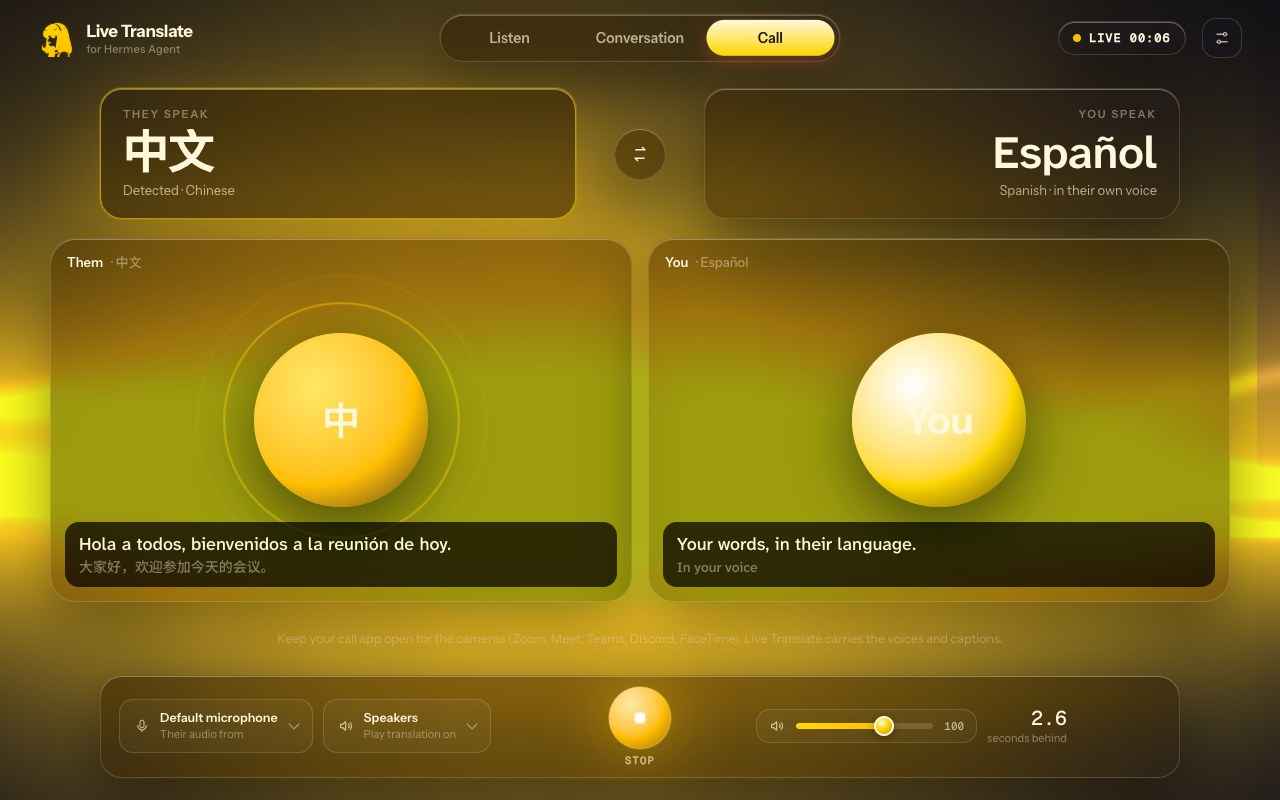
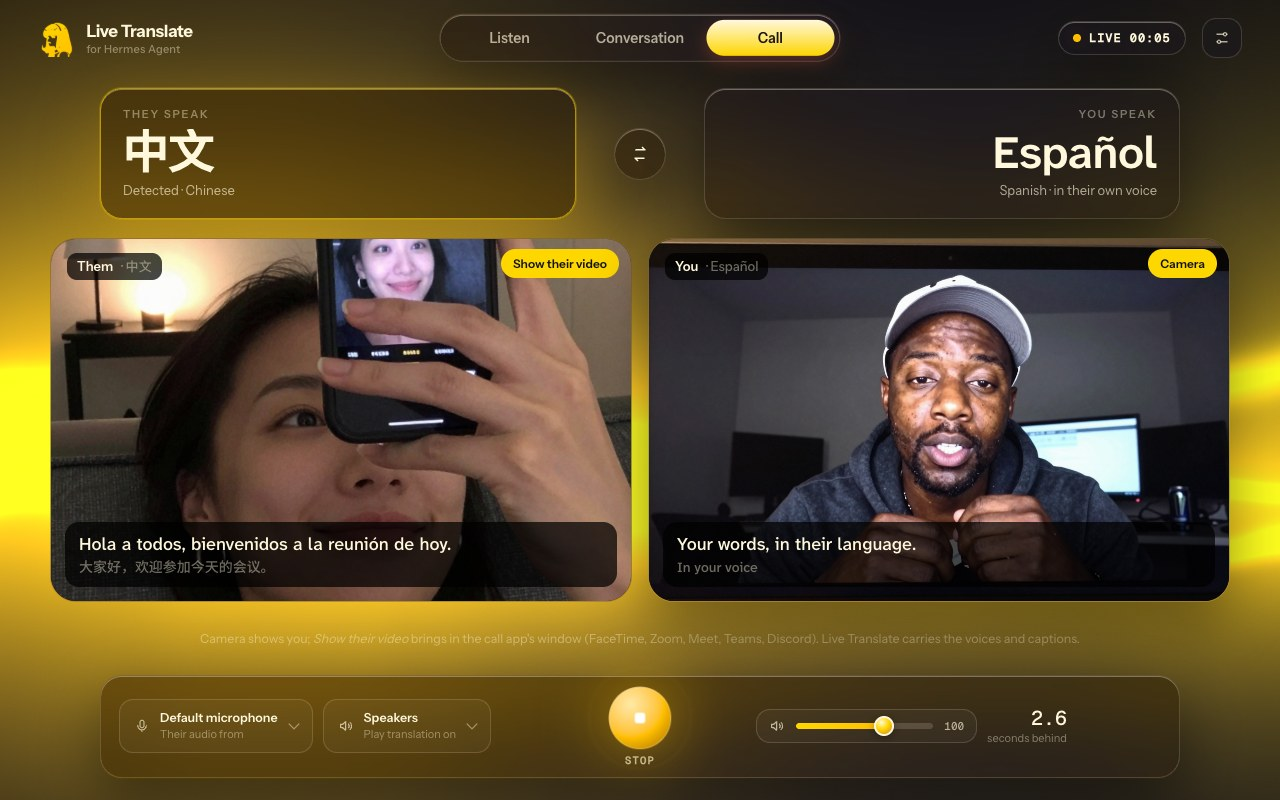
Call view: live camera and the call app's window in the tiles

diff --git a/app/index.html b/app/index.html
@@ -132,6 +132,17 @@ html.in-app .shell { border-radius: 12px; box-shadow: inset 0 0 0 1px var(--edge
   font: 500 clamp(14px, 1.4vw, 18px)/1.35 var(--cap); min-height: 2.8em; }
 .tile .sub small { display: block; color: var(--ink-3); font-size: .78em; margin-top: 2px; }
 .callnote { grid-column: 1 / -1; text-align: center; color: var(--ink-3); font-size: 12.5px; }
+/* Live video in the call tiles: your camera, and their side from the call app's window */
+.tile video { position: absolute; inset: 0; width: 100%; height: 100%; object-fit: cover; z-index: 0; display: none; background: #000; }
+.tile[data-video] video { display: block; }
+.tile[data-video] .face { display: none; }
+.tile .name, .tile .sub { z-index: 1; }
+.tile[data-video] .name { padding: 4px 10px; border-radius: 10px; background: var(--sub-bg, rgba(0, 0, 0, .6)); }
+.tile[data-video][data-speaking] { box-shadow: inset 0 0 0 3px var(--gold); }
+.tile .cam { position: absolute; top: 10px; right: 12px; z-index: 2; display: flex; align-items: center; gap: 6px; padding: 6px 11px; border-radius: 999px;
+  border: 1px solid var(--edge); background: var(--glass-strong); color: var(--ink); font: 600 12px var(--ui, inherit); cursor: pointer; }
+.tile .cam:hover { border-color: var(--edge-hi); }
+.tile .cam[aria-pressed="true"] { background: var(--gold); color: #111; border-color: transparent; }
 
 /* Dock */
 .dock { display: grid; grid-template-columns: minmax(0, 1fr) auto minmax(0, 1fr); align-items: center; gap: 18px; padding: 12px 18px; max-width: 1080px; width: 100%; margin-inline: auto; }
@@ -299,11 +310,13 @@ input[type="range"]:focus-visible::-webkit-slider-thumb { outline: 2px solid var
     </section>
 
     <section class="call" id="call" hidden aria-label="Call">
-      <div class="tile glass" data-who="them" id="tThem"><div class="face"><div class="avatar"><span class="ring"></span><span class="ring"></span><span id="aThem">中</span></div></div>
+      <div class="tile glass" data-who="them" id="tThem"><video id="vThem" autoplay muted playsinline></video>
+        <button type="button" class="cam" id="camThem" aria-pressed="false" title="Show the call app's window here: pick FaceTime, Zoom, Meet, Teams or Discord">Show their video</button><div class="face"><div class="avatar"><span class="ring"></span><span class="ring"></span><span id="aThem">中</span></div></div>
         <div class="name">Them <span id="lThem">· 中文</span></div><div class="sub" id="sThem">Their words, in your language.<small>Original underneath</small></div></div>
-      <div class="tile glass" data-who="you" id="tYou"><div class="face"><div class="avatar"><span class="ring"></span><span class="ring"></span><span>You</span></div></div>
+      <div class="tile glass" data-who="you" id="tYou"><video id="vYou" autoplay muted playsinline></video>
+        <button type="button" class="cam" id="camYou" aria-pressed="false" title="Show your camera">Camera</button><div class="face"><div class="avatar"><span class="ring"></span><span class="ring"></span><span>You</span></div></div>
         <div class="name">You <span id="lYou">· English</span></div><div class="sub" id="sYou">Your words, in their language.<small>In your voice</small></div></div>
-      <p class="callnote">Keep your call app open for the cameras (Zoom, Meet, Teams, Discord, FaceTime). Live Translate carries the voices and captions.</p>
+      <p class="callnote">Camera shows you; <i>Show their video</i> brings in the call app's window (FaceTime, Zoom, Meet, Teams, Discord). Live Translate carries the voices and captions.</p>
     </section>
   </main>
 
@@ -591,6 +604,25 @@ function demoToggle() {
       if (ph === 2) { const [src, o, t] = SAMPLE[i % SAMPLE.length]; D.captions = [{ id: i, lane: mode !== "listen" && i % 2 ? "b" : "a", src, tgt: "es", text: o, translation: t }]; i++; D.delay_median_s = 2.4 + (i % 4) * 0.25; } }
   }, 1400);
 }
+
+/* ---------- live video in the call tiles ---------- */
+async function toggleVideo(tile, video, btn, get) {
+  if (video.srcObject) {                                   // stop: back to the orb
+    video.srcObject.getTracks().forEach((t) => t.stop()); video.srcObject = null;
+    tile.removeAttribute("data-video"); btn.setAttribute("aria-pressed", "false"); return;
+  }
+  try {
+    const stream = await get();
+    video.srcObject = stream; tile.setAttribute("data-video", ""); btn.setAttribute("aria-pressed", "true");
+    stream.getVideoTracks()[0].addEventListener("ended", () => { video.srcObject = null; tile.removeAttribute("data-video"); btn.setAttribute("aria-pressed", "false"); });
+  } catch (e) { btn.title = "Not available: " + (e && e.message ? e.message : "permission denied"); }
+}
+if (navigator.mediaDevices) {
+  $("camYou").onclick = () => toggleVideo($("tYou"), $("vYou"), $("camYou"),
+    () => navigator.mediaDevices.getUserMedia({ video: { width: { ideal: 1280 }, height: { ideal: 720 } }, audio: false }));
+  $("camThem").onclick = () => toggleVideo($("tThem"), $("vThem"), $("camThem"),
+    () => navigator.mediaDevices.getDisplayMedia({ video: { frameRate: 30 }, audio: false }));
+} else { $("camYou").hidden = true; $("camThem").hidden = true; }
 
 /* ---------- inside the desktop app: our own theme-coloured window controls ---------- */
 (function () {

diff --git a/README.md b/README.md
@@ -60,8 +60,8 @@ The bundled [agent skill](skills/live-translate/SKILL.md) teaches Hermes the mod
 
 | | |
 |---|---|
-| <img src="docs/media/call.jpg" alt="Call view: two participants with live subtitles under each" width="420"> | <img src="docs/media/settings.jpg" alt="Settings: models found on this computer and in your subscriptions, and themes" width="420"> |
-| **Call view** — each side subtitled in the other's language. | **Settings** — models found automatically; nine Hermes skins or *Match my Hermes*. |
+| <img src="docs/media/call.jpg" alt="Call view: their FaceTime video and your camera, each with live subtitles" width="420"> | <img src="docs/media/settings.jpg" alt="Settings: models found on this computer and in your subscriptions, and themes" width="420"> |
+| **Call view** — your camera and their call window side by side, each subtitled in the other's language. | **Settings** — models found automatically; nine Hermes skins or *Match my Hermes*. |
 
 **In your Hermes skin.** The window follows the skin your Hermes uses (or pick any of them in Settings):
 
